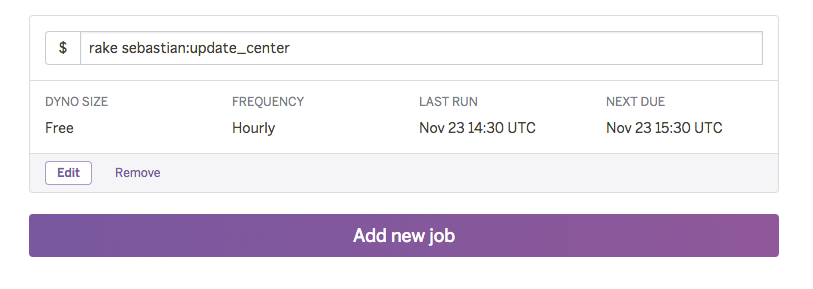
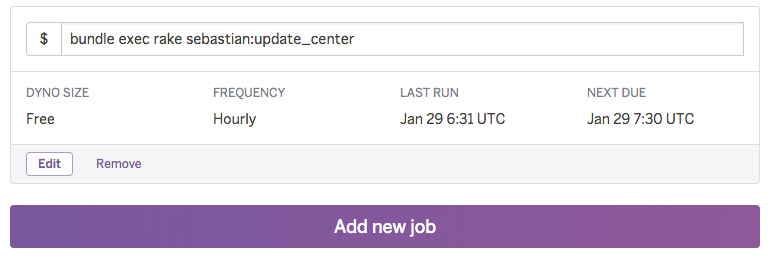
Run scheduler with `bundle exec` [ci skip]

diff --git a/README.md b/README.md
@@ -47,7 +47,7 @@ heroku config:set BUILDPACK_URL=https://github.com/groonga/heroku-buildpack-rroo
 ```
 
 ### Scheduler
-register `rake sebastian:update_center` to heroku scheduler
+register `bundle exec rake sebastian:update_center` to heroku scheduler
 
 ![heroku-scheduler](doc/heroku-scheduler.png)
 
